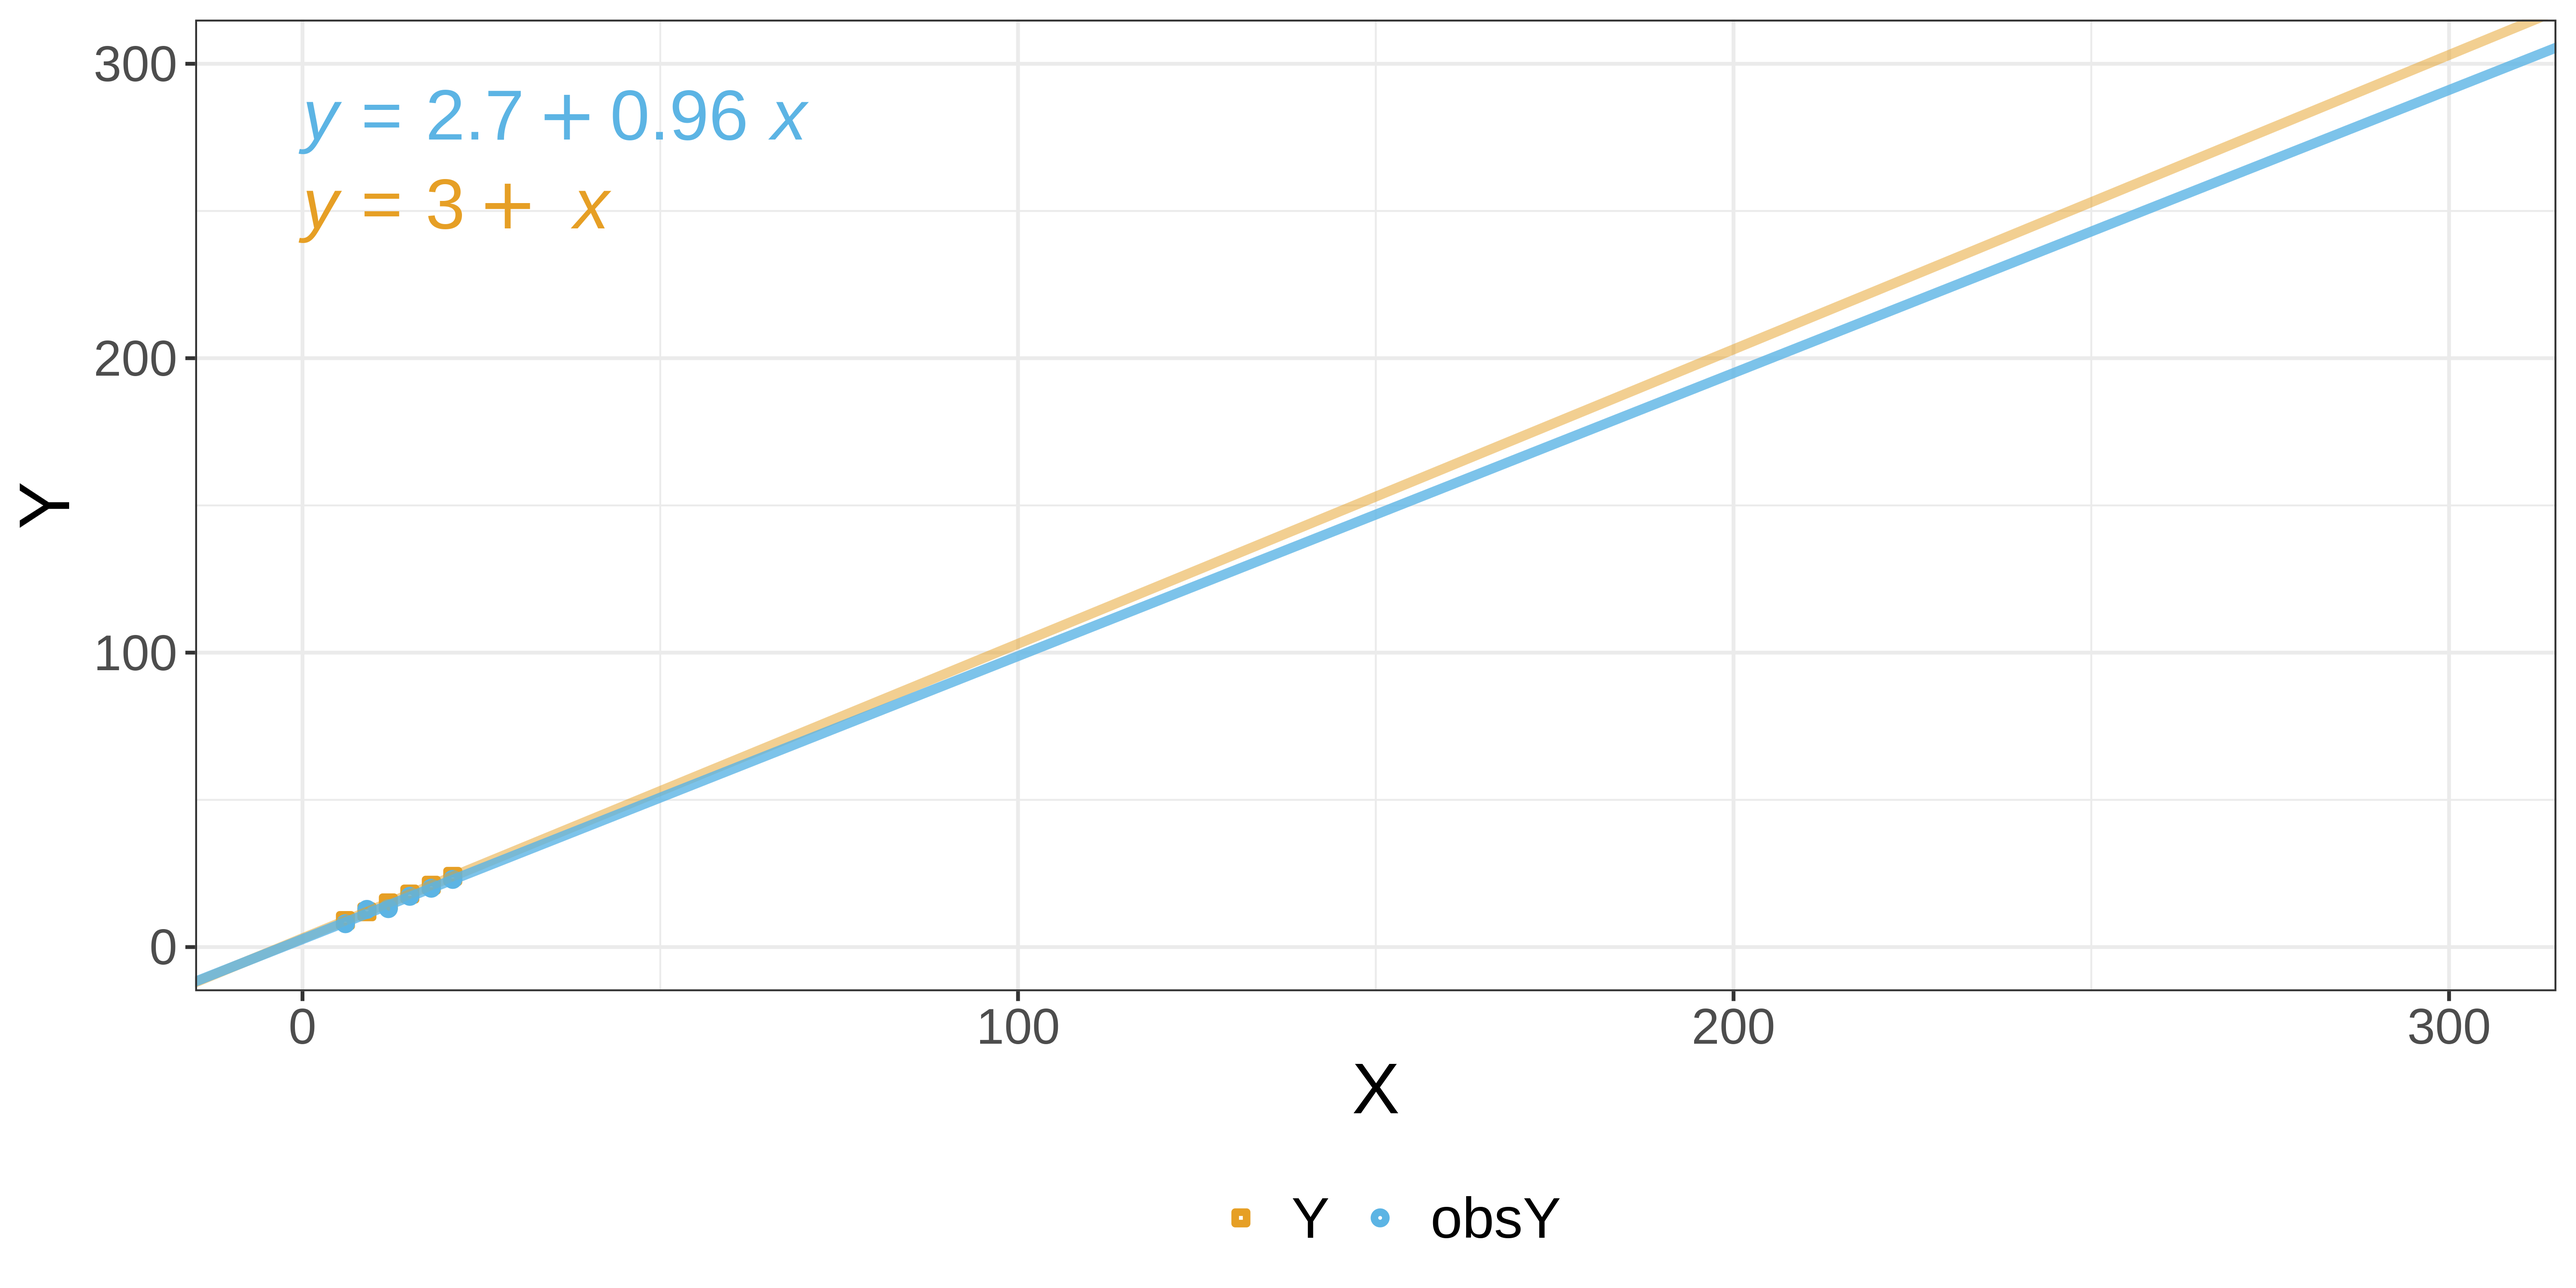
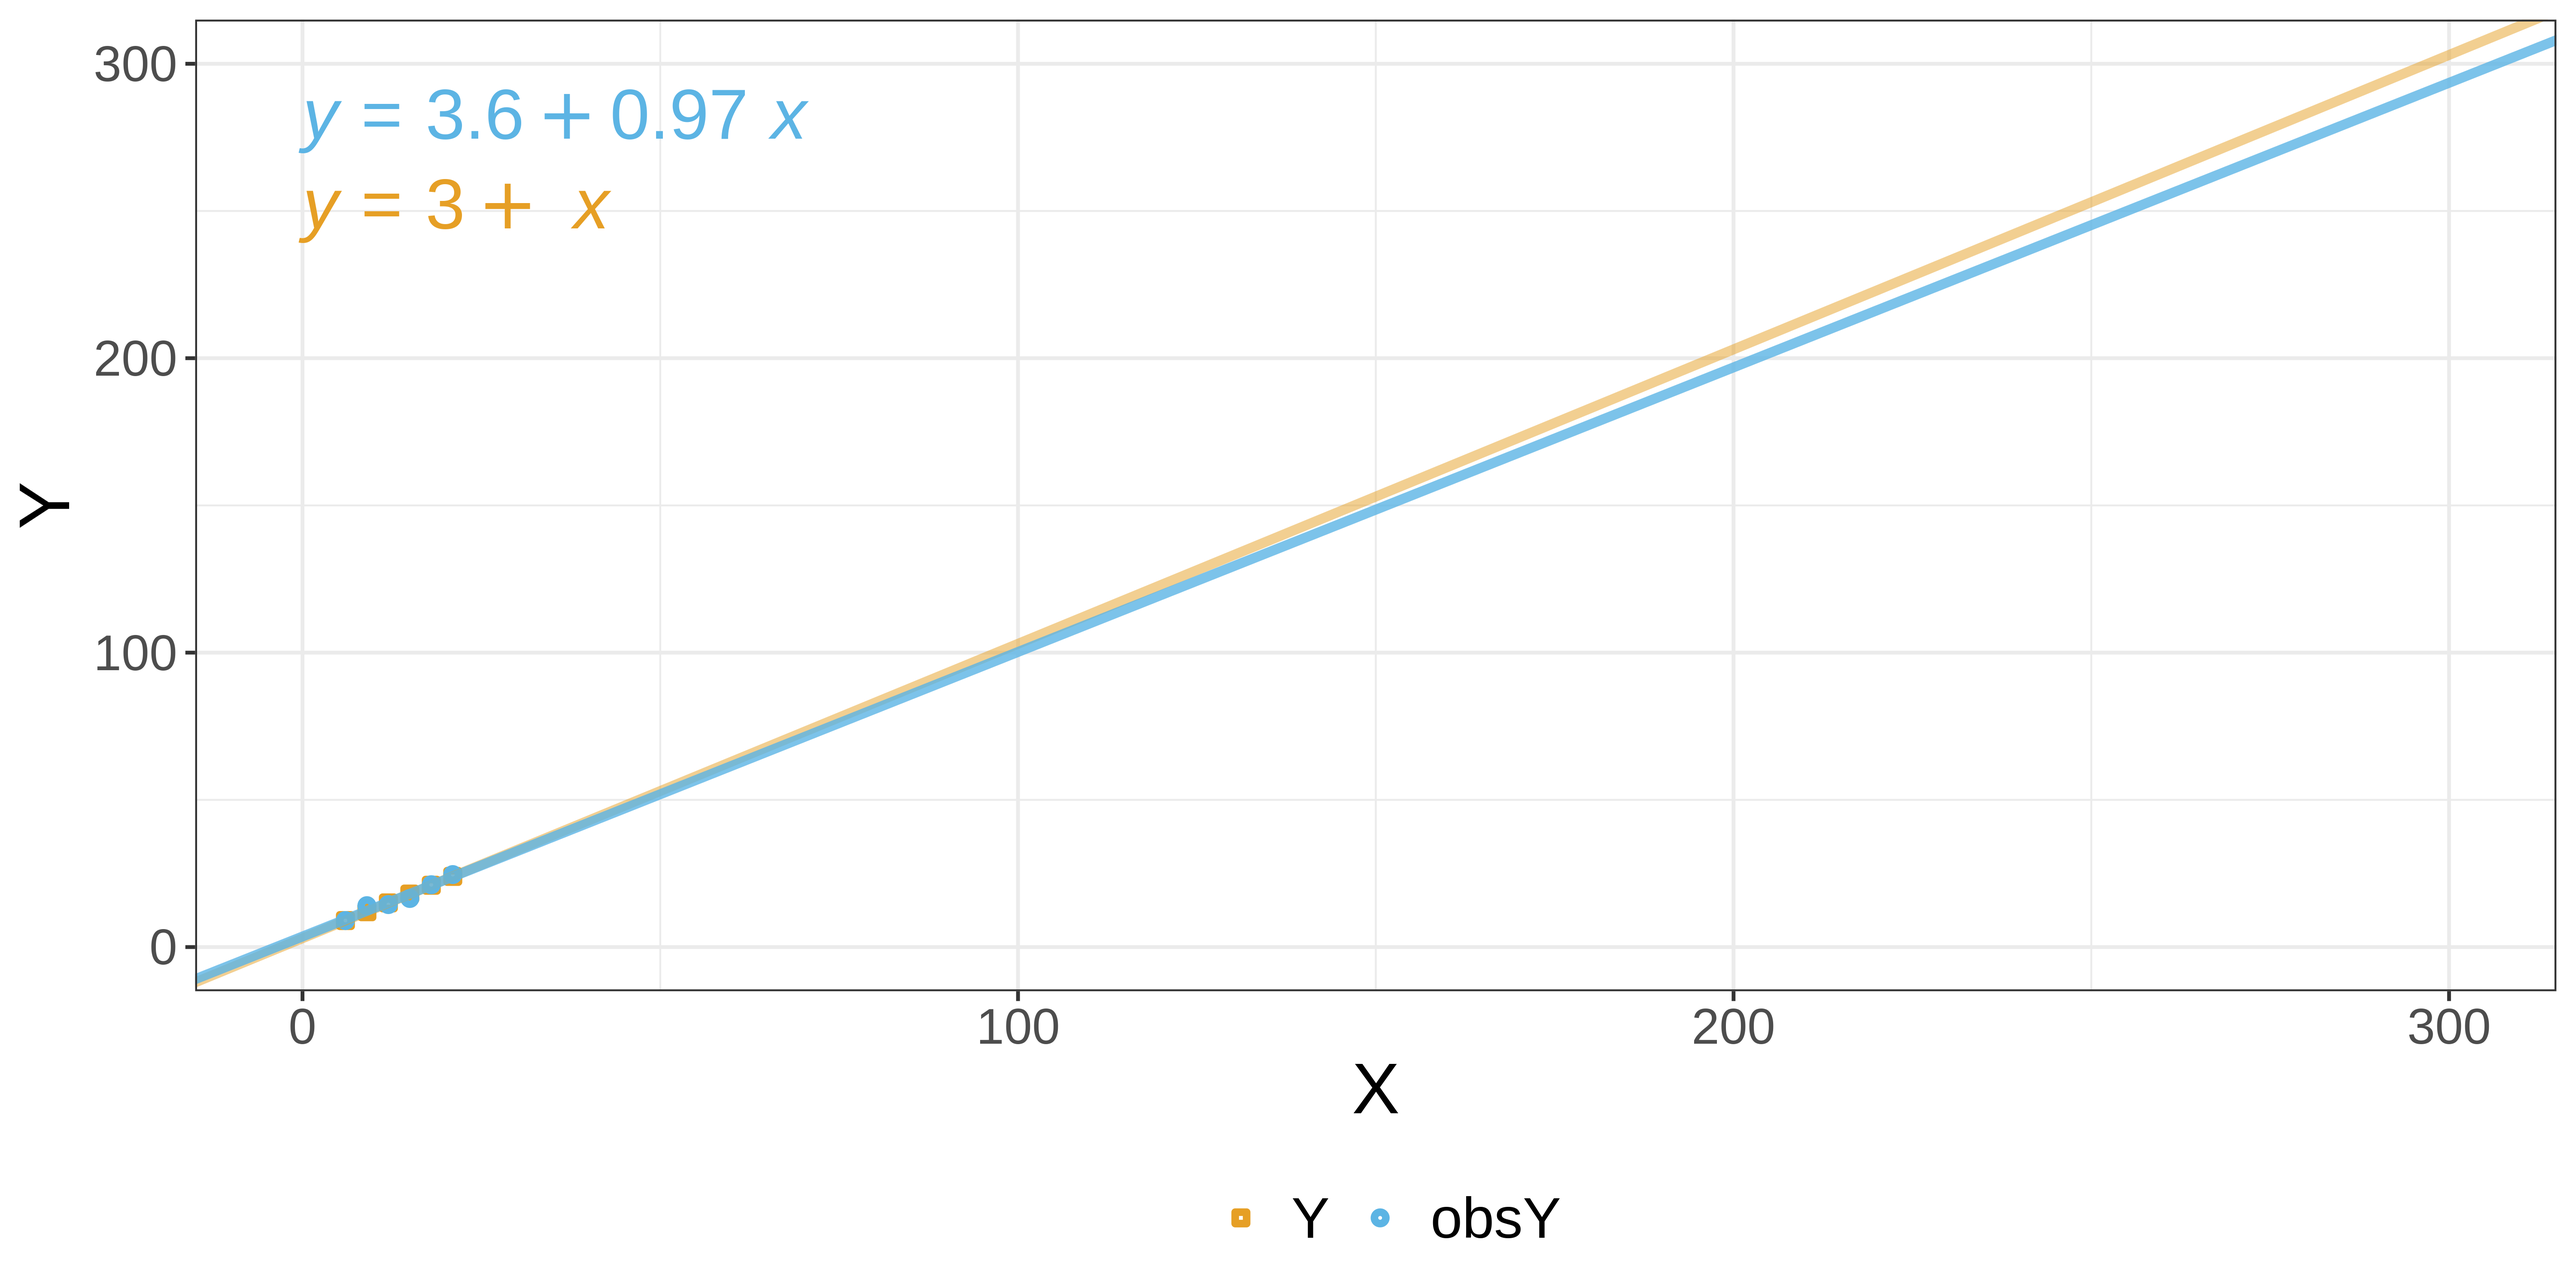
Built site for gh-pages

diff --git a/slides/week01_slides_part2.html b/slides/week01_slides_part2.html
@@ -1086,12 +1086,12 @@ communicate-&gt;end
 <pre><code># A tibble: 6 × 3
       X     Y  obsY
   &lt;int&gt; &lt;int&gt; &lt;dbl&gt;
-1     6     9  7.93
-2     9    12 12.8 
-3    12    15 13.1 
-4    15    18 17.2 
-5    18    21 20.0 
-6    21    24 23.0 </code></pre>
+1     6     9  9.00
+2     9    12 14.1 
+3    12    15 14.4 
+4    15    18 16.5 
+5    18    21 21.2 
+6    21    24 24.6 </code></pre>
 </div>
 </div>
 </section>
@@ -1144,14 +1144,14 @@ communicate-&gt;end
 <div class="cell fragment">
 <div class="cell-output cell-output-stdout">
 <pre><code># A tibble: 6 × 5
-      X     Y  obsY  error absError
-  &lt;int&gt; &lt;int&gt; &lt;dbl&gt;  &lt;dbl&gt;    &lt;dbl&gt;
-1     6     9  7.93  1.07     1.07 
-2     9    12 12.8  -0.792    0.792
-3    12    15 13.1   1.94     1.94 
-4    15    18 17.2   0.765    0.765
-5    18    21 20.0   1.02     1.02 
-6    21    24 23.0   1.02     1.02 </code></pre>
+      X     Y  obsY    error absError
+  &lt;int&gt; &lt;int&gt; &lt;dbl&gt;    &lt;dbl&gt;    &lt;dbl&gt;
+1     6     9  9.00 -0.00323  0.00323
+2     9    12 14.1  -2.06     2.06   
+3    12    15 14.4   0.569    0.569  
+4    15    18 16.5   1.50     1.50   
+5    18    21 21.2  -0.170    0.170  
+6    21    24 24.6  -0.618    0.618  </code></pre>
 </div>
 </div>
 <div class="fragment">
@@ -1159,7 +1159,7 @@ communicate-&gt;end
 <div class="cell" data-output-location="fragment">
 <div class="sourceCode cell-code" id="cb7"><pre class="sourceCode numberSource r code-overflow-wrap number-lines code-with-copy"><code class="sourceCode r"><span id="cb7-1"><a href="#cb7-1"></a><span class="fu">mean</span>(df<span class="sc">$</span>absError)</span></code><button title="Copy to Clipboard" class="code-copy-button"><i class="bi"></i></button></pre></div>
 <div class="cell-output cell-output-stdout">
-<pre><code>[1] 1.10178</code></pre>
+<pre><code>[1] 0.8195212</code></pre>
 </div>
 </div>
 </div>

diff --git a/main/assessments.html b/main/assessments.html
@@ -124,7 +124,7 @@ ul.task-list li input[type="checkbox"] {
 </li>
         <li class="sidebar-item">
   <div class="sidebar-item-container"> 
-  <a href="../main/assessments.html" class="sidebar-item-text sidebar-link active">✍ Assessments</a>
+  <a href="../main/assessments.html" class="sidebar-item-text sidebar-link active"><span style="color:red">✍ Assessments (🆕)</span></a>
   </div>
 </li>
         <li class="sidebar-item">
@@ -282,6 +282,20 @@ ul.task-list li input[type="checkbox"] {
 <li>Exam questions will be comparable in style to the problem sets.</li>
 <li>The exam questions will be released on Moodle</li>
 </ul>
+<div class="callout-important callout callout-style-default callout-captioned">
+<div class="callout-header d-flex align-content-center">
+<div class="callout-icon-container">
+<i class="callout-icon"></i>
+</div>
+<div class="callout-caption-container flex-fill">
+⚠ Import Update 11/10/2022
+</div>
+</div>
+<div class="callout-body-container callout-body" style="color:red">
+<p>Last year, DS202 exam was performed entirely online due to COVID-19 mitigation procedures. We want to run it online via our own Moodle page again this academic term, we just need to understand LSE regulations about exams for this year.</p>
+<p>We will update you on this very soon (hopefully by the end of W04).</p>
+</div>
+</div>
 
 
 </section>

diff --git a/main/courserep.html b/main/courserep.html
@@ -124,7 +124,7 @@ ul.task-list li input[type="checkbox"] {
 </li>
         <li class="sidebar-item">
   <div class="sidebar-item-container"> 
-  <a href="../main/assessments.html" class="sidebar-item-text sidebar-link">✍ Assessments</a>
+  <a href="../main/assessments.html" class="sidebar-item-text sidebar-link"><span style="color:red">✍ Assessments (🆕)</span></a>
   </div>
 </li>
         <li class="sidebar-item">
@@ -604,7 +604,7 @@ window.document.addEventListener("DOMContentLoaded", function (event) {
 <nav class="page-navigation">
   <div class="nav-page nav-page-previous">
       <a href="../main/assessments.html" class="pagination-link">
-        <i class="bi bi-arrow-left-short"></i> <span class="nav-page-text">✍ Assessments</span>
+        <i class="bi bi-arrow-left-short"></i> <span class="nav-page-text"><span style="color:red">✍ Assessments (🆕)</span></span>
       </a>          
   </div>
   <div class="nav-page nav-page-next">

diff --git a/main/communication.html b/main/communication.html
@@ -124,7 +124,7 @@ ul.task-list li input[type="checkbox"] {
 </li>
         <li class="sidebar-item">
   <div class="sidebar-item-container"> 
-  <a href="../main/assessments.html" class="sidebar-item-text sidebar-link">✍ Assessments</a>
+  <a href="../main/assessments.html" class="sidebar-item-text sidebar-link"><span style="color:red">✍ Assessments (🆕)</span></a>
   </div>
 </li>
         <li class="sidebar-item">
@@ -545,7 +545,7 @@ window.document.addEventListener("DOMContentLoaded", function (event) {
   </div>
   <div class="nav-page nav-page-next">
       <a href="../main/assessments.html" class="pagination-link">
-        <span class="nav-page-text">✍ Assessments</span> <i class="bi bi-arrow-right-short"></i>
+        <span class="nav-page-text"><span style="color:red">✍ Assessments (🆕)</span></span> <i class="bi bi-arrow-right-short"></i>
       </a>
   </div>
 </nav>

diff --git a/weeks/week02/lab.html b/weeks/week02/lab.html
@@ -187,7 +187,7 @@ code span.wa { color: #60a0b0; font-weight: bold; font-style: italic; } /* Warni
 </li>
         <li class="sidebar-item">
   <div class="sidebar-item-container"> 
-  <a href="../../main/assessments.html" class="sidebar-item-text sidebar-link">✍ Assessments</a>
+  <a href="../../main/assessments.html" class="sidebar-item-text sidebar-link"><span style="color:red">✍ Assessments (🆕)</span></a>
   </div>
 </li>
         <li class="sidebar-item">

diff --git a/weeks/week02/lab_solutions.html b/weeks/week02/lab_solutions.html
@@ -185,7 +185,7 @@ code span.wa { color: #60a0b0; font-weight: bold; font-style: italic; } /* Warni
 </li>
         <li class="sidebar-item">
   <div class="sidebar-item-container"> 
-  <a href="../../main/assessments.html" class="sidebar-item-text sidebar-link">✍ Assessments</a>
+  <a href="../../main/assessments.html" class="sidebar-item-text sidebar-link"><span style="color:red">✍ Assessments (🆕)</span></a>
   </div>
 </li>
         <li class="sidebar-item">

diff --git a/weeks/week03/formative_solutions.html b/weeks/week03/formative_solutions.html
@@ -186,7 +186,7 @@ code span.wa { color: #60a0b0; font-weight: bold; font-style: italic; } /* Warni
 </li>
         <li class="sidebar-item">
   <div class="sidebar-item-container"> 
-  <a href="../../main/assessments.html" class="sidebar-item-text sidebar-link">✍ Assessments</a>
+  <a href="../../main/assessments.html" class="sidebar-item-text sidebar-link"><span style="color:red">✍ Assessments (🆕)</span></a>
   </div>
 </li>
         <li class="sidebar-item">

diff --git a/weeks/week03/lab_solutions.html b/weeks/week03/lab_solutions.html
@@ -185,7 +185,7 @@ code span.wa { color: #60a0b0; font-weight: bold; font-style: italic; } /* Warni
 </li>
         <li class="sidebar-item">
   <div class="sidebar-item-container"> 
-  <a href="../../main/assessments.html" class="sidebar-item-text sidebar-link">✍ Assessments</a>
+  <a href="../../main/assessments.html" class="sidebar-item-text sidebar-link"><span style="color:red">✍ Assessments (🆕)</span></a>
   </div>
 </li>
         <li class="sidebar-item">

diff --git a/weeks/week01/lecture.html b/weeks/week01/lecture.html
@@ -124,7 +124,7 @@ ul.task-list li input[type="checkbox"] {
 </li>
         <li class="sidebar-item">
   <div class="sidebar-item-container"> 
-  <a href="../../main/assessments.html" class="sidebar-item-text sidebar-link">✍ Assessments</a>
+  <a href="../../main/assessments.html" class="sidebar-item-text sidebar-link"><span style="color:red">✍ Assessments (🆕)</span></a>
   </div>
 </li>
         <li class="sidebar-item">

diff --git a/weeks/week01/prep.html b/weeks/week01/prep.html
@@ -124,7 +124,7 @@ ul.task-list li input[type="checkbox"] {
 </li>
         <li class="sidebar-item">
   <div class="sidebar-item-container"> 
-  <a href="../../main/assessments.html" class="sidebar-item-text sidebar-link">✍ Assessments</a>
+  <a href="../../main/assessments.html" class="sidebar-item-text sidebar-link"><span style="color:red">✍ Assessments (🆕)</span></a>
   </div>
 </li>
         <li class="sidebar-item">

diff --git a/weeks/week02/checklist.html b/weeks/week02/checklist.html
@@ -124,7 +124,7 @@ ul.task-list li input[type="checkbox"] {
 </li>
         <li class="sidebar-item">
   <div class="sidebar-item-container"> 
-  <a href="../../main/assessments.html" class="sidebar-item-text sidebar-link">✍ Assessments</a>
+  <a href="../../main/assessments.html" class="sidebar-item-text sidebar-link"><span style="color:red">✍ Assessments (🆕)</span></a>
   </div>
 </li>
         <li class="sidebar-item">

diff --git a/weeks/week02/lecture.html b/weeks/week02/lecture.html
@@ -124,7 +124,7 @@ ul.task-list li input[type="checkbox"] {
 </li>
         <li class="sidebar-item">
   <div class="sidebar-item-container"> 
-  <a href="../../main/assessments.html" class="sidebar-item-text sidebar-link">✍ Assessments</a>
+  <a href="../../main/assessments.html" class="sidebar-item-text sidebar-link"><span style="color:red">✍ Assessments (🆕)</span></a>
   </div>
 </li>
         <li class="sidebar-item">
